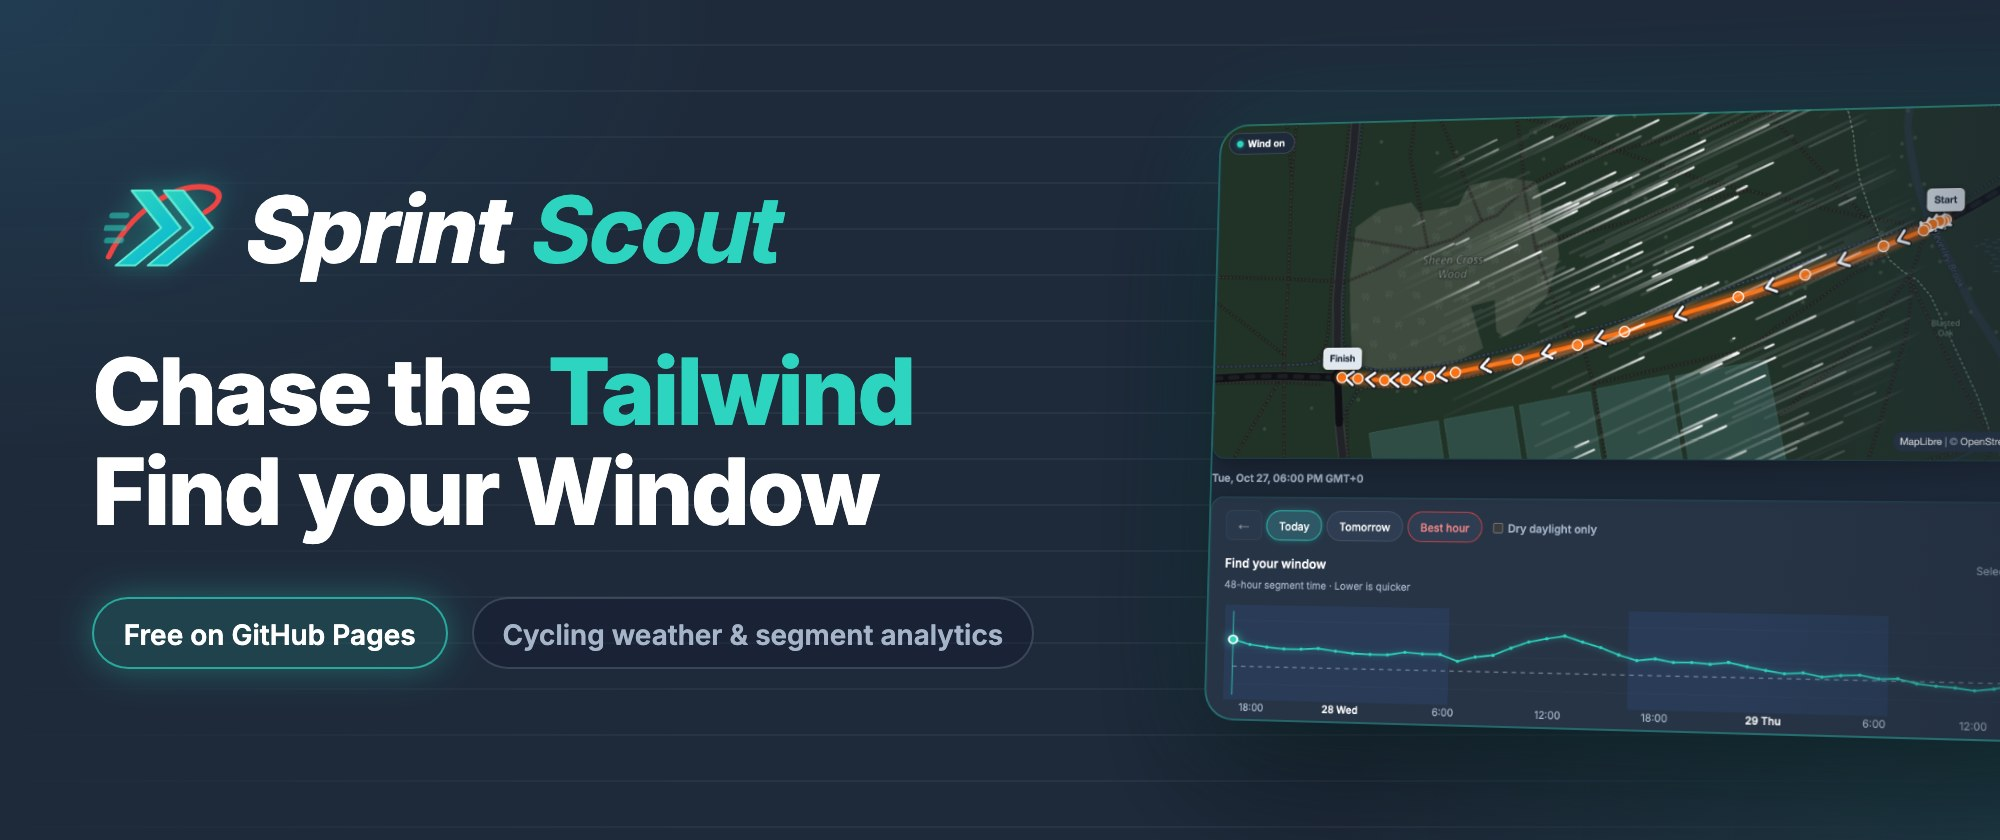
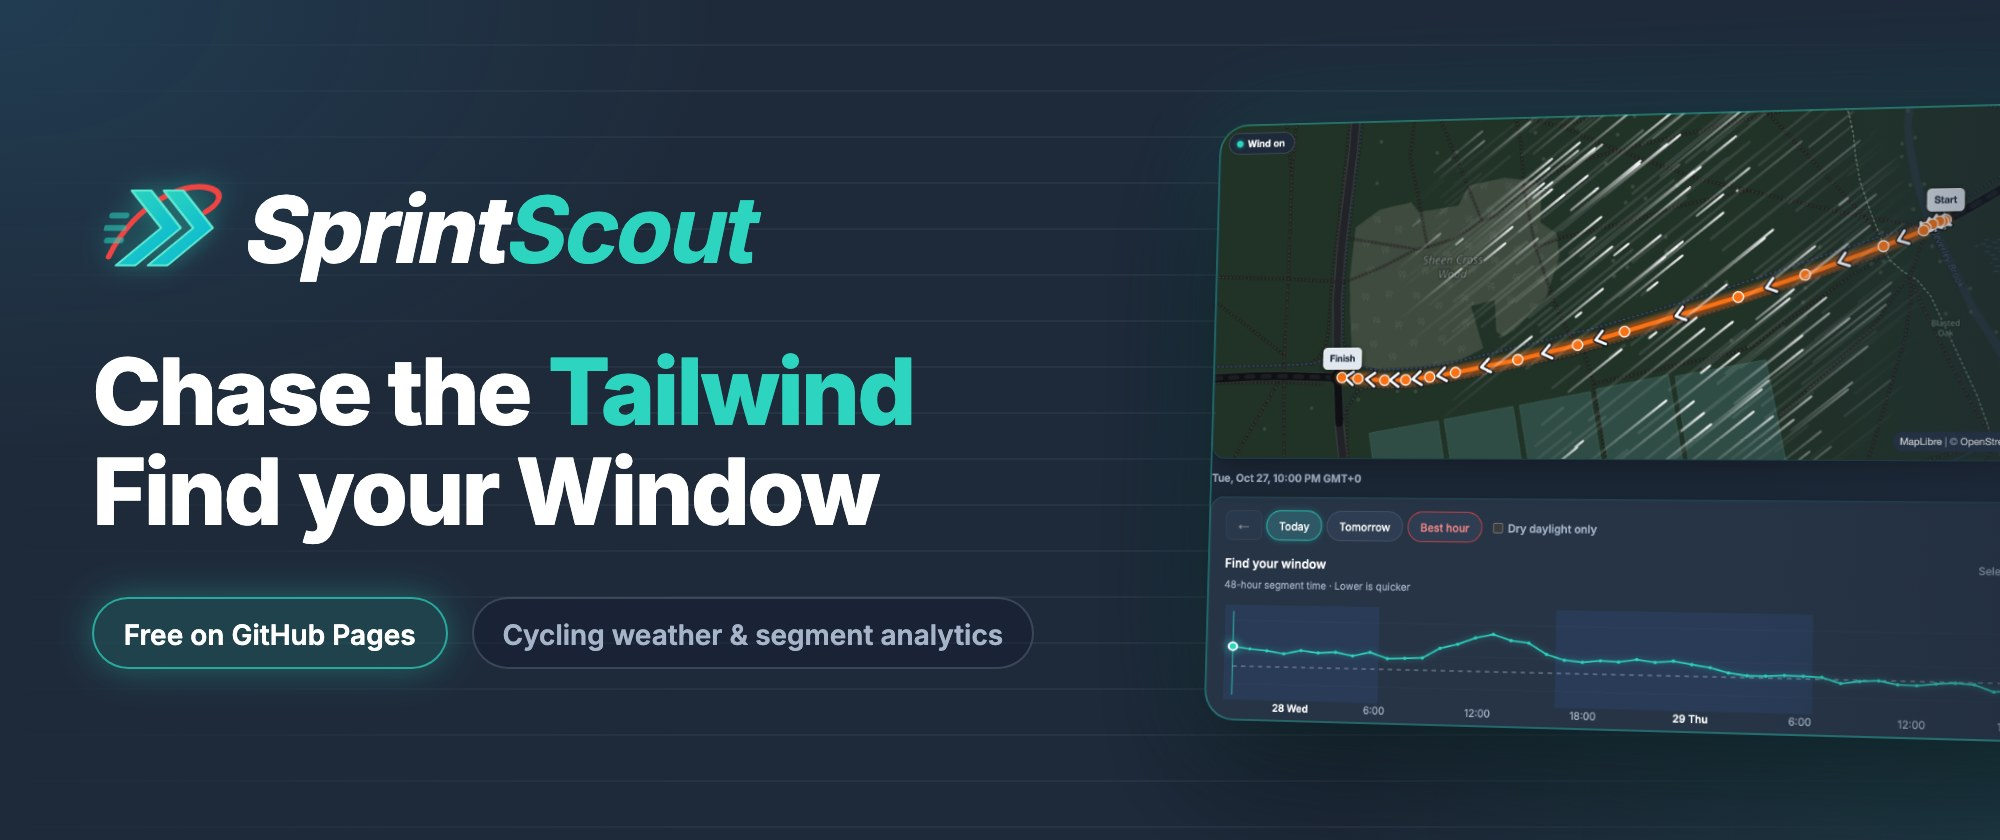
Wordmark as one word: drop the word gap
Sprint and Scout run together on the planner, the dashboard and the
banner template; banners re-rendered; docs prose says SprintScout.

diff --git a/packages/testing/src/dashboard.ts b/packages/testing/src/dashboard.ts
@@ -1247,7 +1247,7 @@ code{font-size:.8em;background:color-mix(in srgb,var(--accent) 12%,transparent);
 .stack{display:grid;gap:12px;align-content:start}
 .columns{display:block;width:100%;height:auto;margin-top:8px}.columns .grid line{stroke:var(--border);stroke-dasharray:3 4}.columns .axis{fill:var(--muted);font:10px "JetBrains Mono",ui-monospace,monospace}
 .columns path{transition:opacity var(--ease)}.columns path:not(.now){opacity:.72}.columns path:hover{opacity:1}.columns .now{filter:drop-shadow(0 0 6px var(--watch))}
-.brand{display:inline-flex;align-items:center;gap:14px;margin:0;color:var(--ink);text-decoration:none;transform:skewX(-12deg);transform-origin:left bottom}.brand img{display:block;filter:drop-shadow(0 0 6px rgba(45,212,191,.45))}.brand span{font-weight:800;font-size:2.6rem;line-height:1;letter-spacing:-.03em;white-space:nowrap}.brand b{font-weight:700;color:var(--brand-scout);margin-left:.26em}
+.brand{display:inline-flex;align-items:center;gap:14px;margin:0;color:var(--ink);text-decoration:none;transform:skewX(-12deg);transform-origin:left bottom}.brand img{display:block;filter:drop-shadow(0 0 6px rgba(45,212,191,.45))}.brand span{font-weight:800;font-size:2.6rem;line-height:1;letter-spacing:-.03em;white-space:nowrap}.brand b{font-weight:700;color:var(--brand-scout)}
 @media (max-width:600px){.brand{gap:10px}.brand img{width:40px;height:40px}.brand span{font-size:2rem}h1{font-size:1.6rem}.title{text-align:left}.title p{justify-content:flex-start}th:nth-child(2),td:nth-child(2){display:none}}
 footer{margin-top:48px;font-size:.85rem;color:var(--muted)}
 .bands{margin-top:18px;border-radius:14px;padding:12px 16px;background:var(--surface);border:1px solid var(--border)}

diff --git a/packages/testing/src/dashboard.test.ts b/packages/testing/src/dashboard.test.ts
@@ -732,10 +732,11 @@ describe("render", () => {
     expect(html.match(/<style>[\s\S]*<\/style>/)![0]).not.toMatch(/https?:/);
   });
 
-  it("slants the wordmark like the planner's, with Scout bold after a word gap", () => {
+  it("slants the wordmark like the planner's, with Scout bold and no word gap", () => {
     const html = render([snapshot({ date: "2026-10-24" })]);
     expect(html).toMatch(/\.brand\{[^}]*transform:skewX\(-12deg\)/);
-    expect(html).toMatch(/\.brand b\{font-weight:700;[^}]*margin-left:\.26em/);
+    expect(html).toMatch(/\.brand b\{font-weight:700;/);
+    expect(html).not.toMatch(/\.brand b\{[^}]*margin-left/);
   });
 
   it("shares the planner's page and panel colours", () => {

diff --git a/scripts/banner/banner.html b/scripts/banner/banner.html
@@ -91,7 +91,6 @@
       .logo b {
         font-weight: 700;
         color: var(--data);
-        margin-left: 0.26em;
       }
       h1 {
         margin: 0.55em 0 0;

diff --git a/apps/web/app/globals.css b/apps/web/app/globals.css
@@ -622,7 +622,6 @@ hr {
 .logo-word-accent {
   font-weight: 700;
   color: var(--data);
-  margin-left: 0.26em;
 }
 .segment-slots {
   display: flex;

diff --git a/docs/integration-decisions.md b/docs/integration-decisions.md
@@ -59,23 +59,23 @@ Assessment: a candidate connectivity approach to investigate, not an approved in
 
 The synthetic custom MCP server and embedded resource are implemented with the official v2 SDKs. Five read-only tools run over local stdio with registered-source AI-disclosure checks. This does not enable any Strava or live-weather path and does not execute the candidate Strava gateway.
 
-The named tested environment is Sprint Scout AppBridge test host 0.5.0 in Playwright Chromium, using the official AppBridge and SDK client against the real local stdio server. It validates resource loading, local map assets, CSP isolation, scoped refresh and fallback behavior. It contains no language model and is not evidence of a working prompt-to-view flow in a desktop product. The user was asked to select a host; no choice or actual desktop acceptance run has been recorded. Host selection/verification was an open milestone 5 acceptance item until the 22 September 2026 withdrawal. The MCP guide was removed with the server on 22 September 2026.
+The named tested environment is SprintScout AppBridge test host 0.5.0 in Playwright Chromium, using the official AppBridge and SDK client against the real local stdio server. It validates resource loading, local map assets, CSP isolation, scoped refresh and fallback behavior. It contains no language model and is not evidence of a working prompt-to-view flow in a desktop product. The user was asked to select a host; no choice or actual desktop acceptance run has been recorded. Host selection/verification was an open milestone 5 acceptance item until the 22 September 2026 withdrawal. The MCP guide was removed with the server on 22 September 2026.
 
 The web fallback remains loopback-only synthetic mode, not an authenticated remote URL. Account/remote authentication is intentionally deferred to milestone 7. No client settings, accounts, paid services or deployments were changed.
 
 ## Allowed Strava workflow clarification — 9 September 2026
 
-This is a public-documentation assessment, not an account connection or a new provider implementation. The clearly supported personal workflow is **the subscriber → official Strava MCP → the subscriber's AI conversation**. The Sprint Scout ingestion path remains disabled; these are different decisions.
+This is a public-documentation assessment, not an account connection or a new provider implementation. The clearly supported personal workflow is **the subscriber → official Strava MCP → the subscriber's AI conversation**. The SprintScout ingestion path remains disabled; these are different decisions.
 
 The [connector guide](https://support.strava.com/en-us/articles/15401531-strava-mcp-connector) documents OAuth connection through Claude web/Cowork and a direct Claude Code HTTP connector. It advertises personal activity history, fitness, readiness, goals, cross-sport and gear questions. Access is subscriber-only, read-only and revocable; rollout/account eligibility has not been tested here. The [developer FAQ](https://communityhub.strava.com/developers-knowledge-base-14/strava-api-faq-12906) states that this personal MCP use needs neither app development nor application review.
 
 The [launch announcement](https://press.strava.com/articles/strava-launches-mcp-connector), dated 1 June 2026, explicitly advertises activity GPS, per-second streams and cycling power. This improves the capability assessment: geographic activity analysis is advertised. It does not establish tools for starred segments, directed segment geometry, segment effort history or our weather join; no authenticated tool schemas were inspected.
 
-[API Policy](https://www.strava.com/legal/api_policy) 3.5 permits personal use of one's own data through official MCP, including one's own AI application; 5.3 explicitly exempts that MCP usage from its AI restriction. Sections 5.4–5.5 and 5.16 still constrain analytics, persistent indexes and custom interfaces; 6.2 allows only limited transient caching. These do not establish permission for Sprint Scout's ingestion/storage workflow. The linked third-party gateway is not a Strava authorization grant.
+[API Policy](https://www.strava.com/legal/api_policy) 3.5 permits personal use of one's own data through official MCP, including one's own AI application; 5.3 explicitly exempts that MCP usage from its AI restriction. Sections 5.4–5.5 and 5.16 still constrain analytics, persistent indexes and custom interfaces; 6.2 allows only limited transient caching. These do not establish permission for SprintScout's ingestion/storage workflow. The linked third-party gateway is not a Strava authorization grant.
 
-There is a material documentation inconsistency: [getting started](https://developers.strava.com/docs/getting-started/) promotes activity weather enrichment and performance-analysis examples. The connector guide also discusses manual export/upload to Claude. Neither establishes approval for a separate custom MCP analysis service. Therefore this assessment does not label every personal export or every weather-related use categorically prohibited; the exact Sprint Scout workflow remains unresolved.
+There is a material documentation inconsistency: [getting started](https://developers.strava.com/docs/getting-started/) promotes activity weather enrichment and performance-analysis examples. The connector guide also discusses manual export/upload to Claude. Neither establishes approval for a separate custom MCP analysis service. Therefore this assessment does not label every personal export or every weather-related use categorically prohibited; the exact SprintScout workflow remains unresolved.
 
-Decision: direct official-MCP personal conversations are documented as supported. Do not require bespoke approval merely for that workflow. To assess Sprint Scout, first verify whether the official connector exposes the necessary segment capabilities, then obtain an authoritative answer about passing those results to our deterministic weather tool and embedded view. [API Agreement](https://www.strava.com/legal/api) 2.2 directs uncertain use cases to <developers@strava.com>.
+Decision: direct official-MCP personal conversations are documented as supported. Do not require bespoke approval merely for that workflow. To assess SprintScout, first verify whether the official connector exposes the necessary segment capabilities, then obtain an authoritative answer about passing those results to our deterministic weather tool and embedded view. [API Agreement](https://www.strava.com/legal/api) 2.2 directs uncertain use cases to <developers@strava.com>.
 
 Unsent clarification draft: “For one subscriber's private use, may their AI client pass GPS/segment data obtained through official Strava MCP into a local deterministic tool that joins public weather, ranks along-route wind and displays an embedded map? Initially there would be no persistent storage or other users. Does this fall within the personal-MCP allowance? Separately, what retention of raw and derived data is permitted, and which official tools expose starred segment geometry and personal segment efforts?”
 
@@ -103,4 +103,4 @@ This is mode 2 independent data: routes were drawn by the owner with the indepen
 
 ## MCP removed — 22 September 2026
 
-Later the same day the owner decided to keep Sprint Scout as a focused web app and removed the local stdio MCP server, the embedded MCP App and the repository skill. The entry above therefore has no consumer: no MCP or AI surface exists to disclose owner-drawn routes or efforts to, and none is planned. The permission is recorded as history and does not need to be revoked, because nothing implements it. All other rows are unchanged; the planner's browser-local processing and the Open-Meteo decisions stand as written.
+Later the same day the owner decided to keep SprintScout as a focused web app and removed the local stdio MCP server, the embedded MCP App and the repository skill. The entry above therefore has no consumer: no MCP or AI surface exists to disclose owner-drawn routes or efforts to, and none is planned. The permission is recorded as history and does not need to be revoked, because nothing implements it. All other rows are unchanged; the planner's browser-local processing and the Open-Meteo decisions stand as written.

diff --git a/docs/design.md b/docs/design.md
@@ -361,7 +361,7 @@ Map and chart implementations now live in browser-safe `@scout/ui` subpaths; Nex
 
 The server registers `ui://sprint-scout/segment-v1.html` with `text/html;profile=mcp-app`. Esbuild bundles the view, React, schemas, map/chart libraries, CSS and generated map worker into one HTML resource (approximately 3.1 MB before transport compression). No dynamic remote asset request is required. Resource metadata requests no external origins; the HTML additionally uses a SHA-256 script allowlist and denies connections, external fonts, frames, forms and base-URI changes. Inline styles, data/blob images and the bundled blob worker are necessary local capabilities. Stricter host policies may prevent the map, so tables remain the supported fallback. The only interactive tool call is an explicit refresh of the same conditions through `app.callServerTool`.
 
-The named tested host is the repository's **Sprint Scout AppBridge test host 0.5.0**, in Chromium through Playwright. It retrieves the actual resource/tool data over stdio and uses the official AppBridge, separate app/host origins and a restricted iframe. It allows only the conditions refresh at the original scope, checks isolation/CSP behavior and exercises the accessible fallback. This test harness is not a conversational desktop host and does not prove that a natural-language prompt renders the app in Claude, VS Code, Codex or another product. That acceptance remains pending host selection and a real run. No personal client settings were changed.
+The named tested host is the repository's **SprintScout AppBridge test host 0.5.0**, in Chromium through Playwright. It retrieves the actual resource/tool data over stdio and uses the official AppBridge, separate app/host origins and a restricted iframe. It allows only the conditions refresh at the original scope, checks isolation/CSP behavior and exercises the accessible fallback. This test harness is not a conversational desktop host and does not prove that a natural-language prompt renders the app in Claude, VS Code, Codex or another product. That acceptance remains pending host selection and a real run. No personal client settings were changed.
 
 The repository-owned `skills/sprint-scout/SKILL.md` is versioned with the tool implementation; it is not installed globally. It documents coverage-aware scheduling, tool ordering, host-dependent UI, text fallback, departure assumptions and refused sources. The earlier plan's authenticated web fallback cannot be provided before the authentication milestone: for milestone 5 the only fallback is explicitly loopback and synthetic. This sequencing limitation is recorded rather than introducing authentication or deployment early. The MCP setup guide was removed with the server on 22 September 2026.
 
@@ -539,7 +539,7 @@ The owner recorded a data-rights entry (see [integration decisions](integration-
 
 ## MCP removed — 22 September 2026
 
-Sprint Scout is a focused web app. The local stdio MCP server (`apps/mcp`), the embedded MCP App (`apps/mcp-ui`), the repository skill and the MCP guide were removed, along with the versioned tool input/output contracts in `packages/contracts` and the MCP use cases in `packages/application`. The planner display contracts (`displayZone`, `segmentSummary`, `demoConditions`) stay because the web planner uses them. `getDemoConditions` now serves only the Next and Fastify planners. Nothing in sections 10 and 12 about MCP output, AI-disclosure checks on tool output or embedded host acceptance applies any more; the source-permission gate in section 2 is unchanged and still governs the web and HTTP paths. Test and CI steps that built the embedded UI were dropped; the in-process MCP integration suite went with the server. The owner-drawn route disclosure entry recorded earlier today has no consumer and stays as history.
+SprintScout is a focused web app. The local stdio MCP server (`apps/mcp`), the embedded MCP App (`apps/mcp-ui`), the repository skill and the MCP guide were removed, along with the versioned tool input/output contracts in `packages/contracts` and the MCP use cases in `packages/application`. The planner display contracts (`displayZone`, `segmentSummary`, `demoConditions`) stay because the web planner uses them. `getDemoConditions` now serves only the Next and Fastify planners. Nothing in sections 10 and 12 about MCP output, AI-disclosure checks on tool output or embedded host acceptance applies any more; the source-permission gate in section 2 is unchanged and still governs the web and HTTP paths. Test and CI steps that built the embedded UI were dropped; the in-process MCP integration suite went with the server. The owner-drawn route disclosure entry recorded earlier today has no consumer and stays as history.
 
 ## Flake hunt removed — 23 September 2026
 
@@ -757,3 +757,7 @@ The README banner and the GitHub social preview were AI-generated images that ke
 ## Unit and component badges — 27 October 2026
 
 The README badge row gains "unit" and "component" badges before e2e, so the test levels read bottom-up before the quality gates (coverage, mutation, Lighthouse, evals). Each reads "passed/total pass" from the counts the dashboard already takes from the merged unit report and the component report, green with no failures and red with any; a run without the report reads grey "n/a". Vitest runs without retries, so unlike e2e there is no flaky state. Option A of three: one badge per level, matching the dashboard's cards. See `intent/test-badges/`.
+
+## Wordmark as one word — 27 October 2026
+
+The owner asked for SprintScout to read as one word everywhere. The word-space gap (0.26 em) that the italic logo put between "Sprint" and "Scout" is removed on the planner, the engineering dashboard and the banner template, so the words run together at the wordmark's −0.03 em letter spacing; the slant, weights, colours and sizes are unchanged, and the "t" and "S" do not touch at desktop or phone sizes. The README banner and social preview were re-rendered with `pnpm banner`. Docs prose now spells the name "SprintScout"; the "Italic wordmark" entry above keeps its wording as history. This supersedes that entry's gap. See `intent/wordmark-tight/`.

diff --git a/docs/validation.md b/docs/validation.md
@@ -137,7 +137,7 @@ Initial checks found a missing shared map stylesheet import and a type-only SDK 
 
 ## Remaining acceptance and boundaries
 
-The named tested host is **Sprint Scout AppBridge test host 0.5.0**, a Playwright harness using the official SDK. It contains no language model. A chosen conversational desktop host must still run the documented example prompt and demonstrate actual embedded rendering/interaction, permissions and fallback. Host configurations and personal accounts were not accessed or changed.
+The named tested host is **SprintScout AppBridge test host 0.5.0**, a Playwright harness using the official SDK. It contains no language model. A chosen conversational desktop host must still run the documented example prompt and demonstrate actual embedded rendering/interaction, permissions and fallback. Host configurations and personal accounts were not accessed or changed.
 
 The web fallback is a local synthetic demo. An authenticated remote link is unavailable until milestone 7; the plan/design explicitly record that sequencing limitation. Real Strava access and the user-linked gateway remain disabled pending source/workflow verification. Live weather was not enabled, no database work or migration was needed, no services were purchased and nothing was deployed. No milestone 6 or later implementation began. The directory still has no Git repository, so no commit was created.
 

diff --git a/docs/implementation-plan.md b/docs/implementation-plan.md
@@ -130,7 +130,7 @@ Release checkpoint: the demo MVP is now useful and can be handed over even if li
 
 Implementation status (8 September 2026): tools, stdio, embedded resource and skill implemented and locally tested; **milestone acceptance remained open** for the chosen conversational desktop host until the 22 September 2026 withdrawal. The MCP guide was removed with the server on 22 September 2026; see the Milestone 5 section of [validation.md](validation.md). No desktop settings were changed. The fallback is explicitly local/synthetic; authenticated remote access remains milestone 7. Do not start milestone 6 to work around this acceptance item or the source-permission gate.
 
-Removed (22 September 2026): the owner chose to keep Sprint Scout as a focused web app. `apps/mcp`, `apps/mcp-ui`, `skills/sprint-scout`, `docs/mcp.md` and the MCP tool contracts were deleted; milestone 5 is closed as withdrawn, not accepted. Remote MCP items in milestone 7 no longer apply.
+Removed (22 September 2026): the owner chose to keep SprintScout as a focused web app. `apps/mcp`, `apps/mcp-ui`, `skills/sprint-scout`, `docs/mcp.md` and the MCP tool contracts were deleted; milestone 5 is closed as withdrawn, not accepted. Remote MCP items in milestone 7 no longer apply.
 
 ## Milestone 6 — Approved personal data integration
 

diff --git a/intent/wordmark-tight/intent.md b/intent/wordmark-tight/intent.md
@@ -1,6 +1,6 @@
 # Wordmark as one word
 
-Status: accepted
+Status: done
 Opened: 27 October 2026 by Paul Newell
 
 ## Problem
